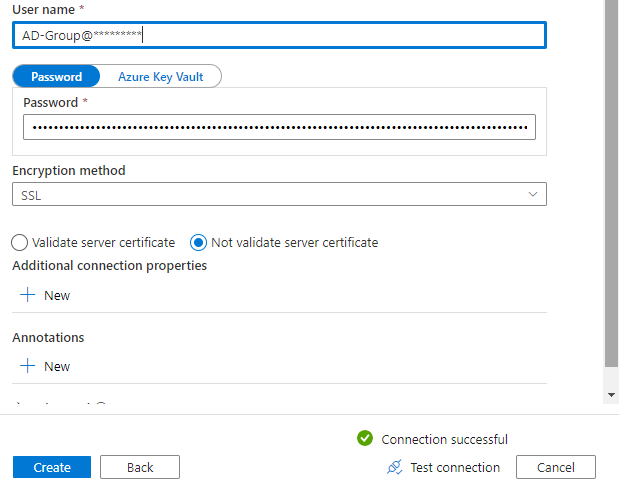
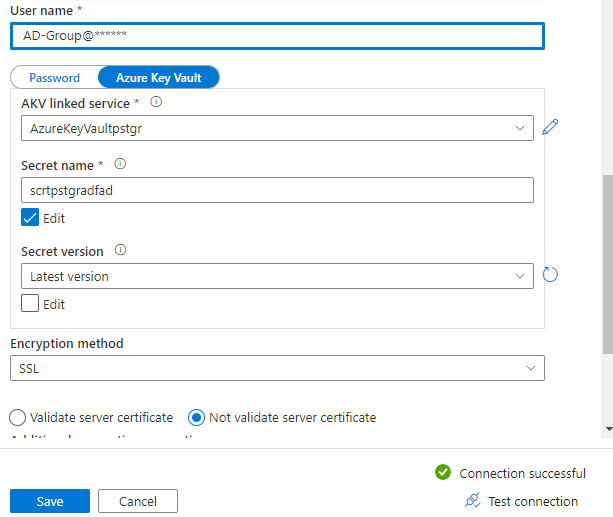
Update Documentation

diff --git a/docs/fr/PostgreSQL.md b/docs/fr/PostgreSQL.md
@@ -5,11 +5,10 @@ _[English](../../fr/PostgreSQL)_
 ### Azure Data Factory
 On peut créer un service lié dans Azure Data Factory.
 Le nom d'utilisateur est votre **compte cloud** ou groupe AD si l'accès a été donné à un groupe auquel vous appartenez, suivi du nom du serveur.
-Le mot de passe est un jeton d'accès d'Azure AD tel que décrit ci-dessous au point 6 de la section pgAdmin
+Le mot de passe est un jeton d'accès d'Azure AD tel que décrit ci-dessous au point 6 de la section pgAdmin.
+Dans les deux cas, ces valeurs devraient être enregistrées dans un keyvault auquel le service lié fait référence.
 
 ![ConnectDataFactorySynapse1](images/PgSql_08.png)
-ou
-![ConnectDataFactorySynapse2](images/PgSql_09.png)
 
 Veuillez communiquer avec l'équipe de soutien par l'intermédiaire du canal https://cae-eac.slack.com si vous avez besoin d'aide.
 

diff --git a/docs/en/PostgreSQL.md b/docs/en/PostgreSQL.md
@@ -5,11 +5,10 @@ _[Français](../../fr)_
 ### Azure Data Factory
 A linked service can be setup inside Azure Data Factory.
 Username is **Cloud account username** or AD group name if access was granted to a AD group, followed by the server name.
-Password is an Azure AD access Token as described below in step 6 of pgAdmin section
+Password is an Azure AD access Token as described below in step 6 of pgAdmin section. 
+In both case, those values should be stored in a keyvault referenced by the linked service
 
 ![ConnectDataFactorySynapse1](images/PgSql_08.png)
-or
-![ConnectDataFactorySynapse2](images/PgSql_09.png)
 
 Please contact the support team through the https://cae-eac.slack.com channel if you need assistance.
 
